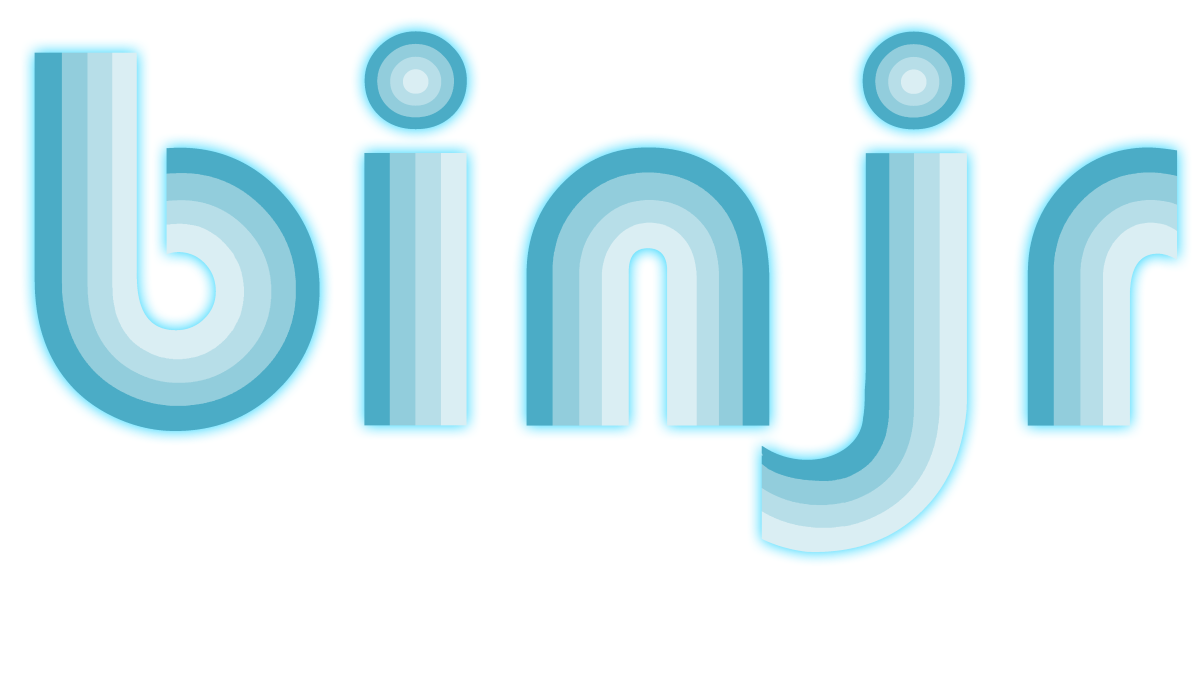
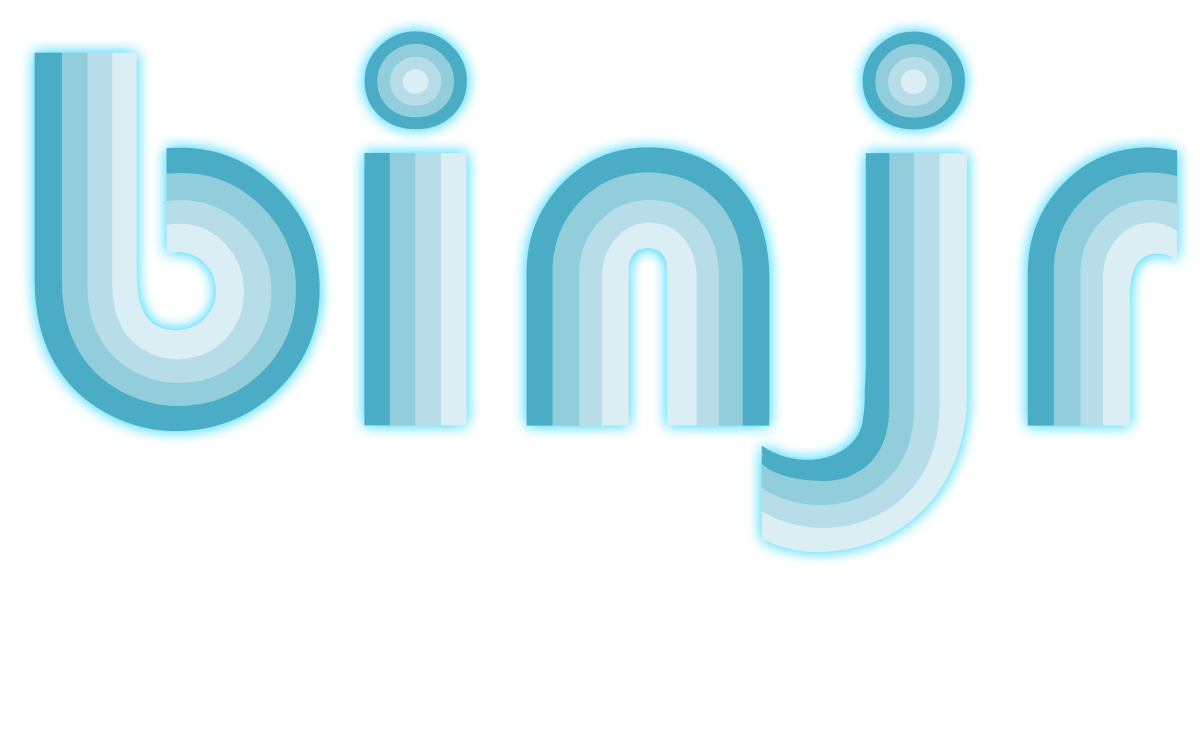
Fixed alignments on landing page

diff --git a/docs/index.html b/docs/index.html
@@ -119,7 +119,9 @@
             }
 
             .tx-hero__content {
-                max-width: 35%;
+                max-width: 30%;
+       
+
                 /*margin-top: 3.5rem;*/
 
                 /* padding-bottom: 14vw */
@@ -167,7 +169,7 @@
         <div class="home-grid home-typeset">
             <div class="tx-hero">
                 <div class="tx-hero__content">
-                    <h1><img src="assets/images/binjr_title.png" alt="" draggable="false" width=75% height=75%></h1>
+                    <h1><img src="assets/images/binjr_title.png" alt="" draggable="false" width=98% ></h1>
                     <p>binjr is a standalone time series browser. it renders time series data produced by other
                         applications as dynamically editable views and provides advanced features to navigate
                         the data smoothly and efficiently.</p>
@@ -176,9 +178,9 @@
                        class="home-button home-button--primary"> Learn more </a>
                     <a href="/download/latest_release/"
                        title="Download"
-                       class="home-button"> Download </a>
+                       class="home-button">Download</a>
                 </div>
-                <div style="margin-left: 2rem;"></div>
+                <div style="margin-left: 4rem;"></div>
                 <div class="tx-hero__image">
                     <video preload="none"
                            onclick="this.play(); this.controls=true;"
@@ -192,11 +194,12 @@
         </div>
     </section>
     <footer class="home-footer">
+        <div style="margin-top: auto;"></div>
         <div class="home-footer-meta home-typeset">
             <div class="home-footer-meta__inner home-center">
-                <div class="home-footer-social ">
+                <div class="home-footer-social">
                     <a href="https://github.com/binjr/binjr" title="github.com"
-                       class="home-footer-social__link home-center">
+                       class="home-footer-social__link">
                         <svg xmlns="http://www.w3.org/2000/svg" viewBox="0 0 496 512">
                             <path
                                     d="M165.9 397.4c0 2-2.3 3.6-5.2 3.6-3.3.3-5.6-1.3-5.6-3.6 0-2 2.3-3.6 5.2-3.6 3-.3 5.6 1.3 5.6 3.6zm-31.1-4.5c-.7 2 1.3 4.3 4.3 4.9 2.6 1 5.6 0 6.2-2s-1.3-4.3-4.3-5.2c-2.6-.7-5.5.3-6.2 2.3zm44.2-1.7c-2.9.7-4.9 2.6-4.6 4.9.3 2 2.9 3.3 5.9 2.6 2.9-.7 4.9-2.6 4.6-4.6-.3-1.9-3-3.2-5.9-2.9zM244.8 8C106.1 8 0 113.3 0 252c0 110.9 69.8 205.8 169.5 239.2 12.8 2.3 17.3-5.6 17.3-12.1 0-6.2-.3-40.4-.3-61.4 0 0-70 15-84.7-29.8 0 0-11.4-29.1-27.8-36.6 0 0-22.9-15.7 1.6-15.4 0 0 24.9 2 38.6 25.8 21.9 38.6 58.6 27.5 72.9 20.9 2.3-16 8.8-27.1 16-33.7-55.9-6.2-112.3-14.3-112.3-110.5 0-27.5 7.6-41.3 23.6-58.9-2.6-6.5-11.1-33.3 2.6-67.9 20.9-6.5 69 27 69 27 20-5.6 41.5-8.5 62.8-8.5s42.8 2.9 62.8 8.5c0 0 48.1-33.6 69-27 13.7 34.7 5.2 61.4 2.6 67.9 16 17.7 25.8 31.5 25.8 58.9 0 96.5-58.9 104.2-114.8 110.5 9.2 7.9 17 22.9 17 46.4 0 33.7-.3 75.4-.3 83.6 0 6.5 4.6 14.4 17.3 12.1C428.2 457.8 496 362.9 496 252 496 113.3 383.5 8 244.8 8zM97.2 352.9c-1.3 1-1 3.3.7 5.2 1.6 1.6 3.9 2.3 5.2 1 1.3-1 1-3.3-.7-5.2-1.6-1.6-3.9-2.3-5.2-1zm-10.8-8.1c-.7 1.3.3 2.9 2.3 3.9 1.6 1 3.6.7 4.3-.7.7-1.3-.3-2.9-2.3-3.9-2-.6-3.6-.3-4.3.7zm32.4 35.6c-1.6 1.3-1 4.3 1.3 6.2 2.3 2.3 5.2 2.6 6.5 1 1.3-1.3.7-4.3-1.3-6.2-2.2-2.3-5.2-2.6-6.5-1zm-11.4-14.7c-1.6 1-1.6 3.6 0 5.9 1.6 2.3 4.3 3.3 5.6 2.3 1.6-1.3 1.6-3.9 0-6.2-1.4-2.3-4-3.3-5.6-2z">
@@ -204,7 +207,7 @@
                         </svg>
                     </a>
                     <a rel="me" href="https://fosstodon.org/@binjr" title="fosstodon.com"
-                       class="home-footer-social__link home-center">
+                       class="home-footer-social__link">
                         <svg xmlns="http://www.w3.org/2000/svg" viewBox="0 0 448 512">
                             <path d="M433 179.11c0-97.2-63.71-125.7-63.71-125.7-62.52-28.7-228.56-28.4-290.48 0 0 0-63.72 28.5-63.72 125.7 0 115.7-6.6 259.4 105.63 289.1 40.51 10.7 75.32 13 103.33 11.4 50.81-2.8 79.32-18.1 79.32-18.1l-1.7-36.9s-36.31 11.4-77.12 10.1c-40.41-1.4-83-4.4-89.63-54a102.54 102.54 0 0 1-.9-13.9c85.63 20.9 158.65 9.1 178.75 6.7 56.12-6.7 105-41.3 111.23-72.9 9.8-49.8 9-121.5 9-121.5zm-75.12 125.2h-46.63v-114.2c0-49.7-64-51.6-64 6.9v62.5h-46.33V197c0-58.5-64-56.6-64-6.9v114.2H90.19c0-122.1-5.2-147.9 18.41-175 25.9-28.9 79.82-30.8 103.83 6.1l11.6 19.5 11.6-19.5c24.11-37.1 78.12-34.8 103.83-6.1 23.71 27.3 18.4 53 18.4 175z"/>
                         </svg>

diff --git a/docs/assets/stylesheets/landing.css b/docs/assets/stylesheets/landing.css
@@ -479,7 +479,8 @@ hr {
     display: block;
     margin-left: auto;
     margin-right: auto;
-    width: 10%;
+    width: 6rem;
+    
 }
 
 .home-container {
@@ -557,8 +558,10 @@ hr {
 
 .home-typeset .home-button {
     display: inline-block;
+    text-align: center;
     padding: .625em 2em;
     color: var(--home-primary-fg-color);
+    min-width: 46%;
     font-weight: 700;
     border: .1rem solid currentColor;
     border-radius: .1rem;
@@ -938,7 +941,7 @@ html .home-footer-meta.home-typeset a:focus, html .home-footer-meta.home-typeset
 .home-footer-social__link {
     display: inline-block;
     width: 2rem;
-    height: 1.6rem;
+    height: auto;
     text-align: center
 }
 
@@ -3271,12 +3274,33 @@ html .home-typeset .tabbed-set>label:hover {
     [data-home-toggle=search]:checked~.home-header .home-search__overlay {
         transform: scale(45)
     }
+
+    .home-footer {
+        position: absolute;
+        bottom: 0ch;
+
+        display: block;
+        margin-left: auto;
+        margin-right: auto;
+        width: 100%;
+    }
+ 
 }
 
 @media screen and (min-width: 30em)and (max-width: 44.9375em) {
     [data-home-toggle=search]:checked~.home-header .home-search__overlay {
         transform: scale(60)
     }
+    .home-footer {
+        position: absolute;
+        bottom: 0ch;
+
+        display: block;
+        margin-left: auto;
+        margin-right: auto;
+        width: 100%;
+    }
+
 }
 
 @media screen and (min-width: 45em)and (max-width: 59.9375em) {
